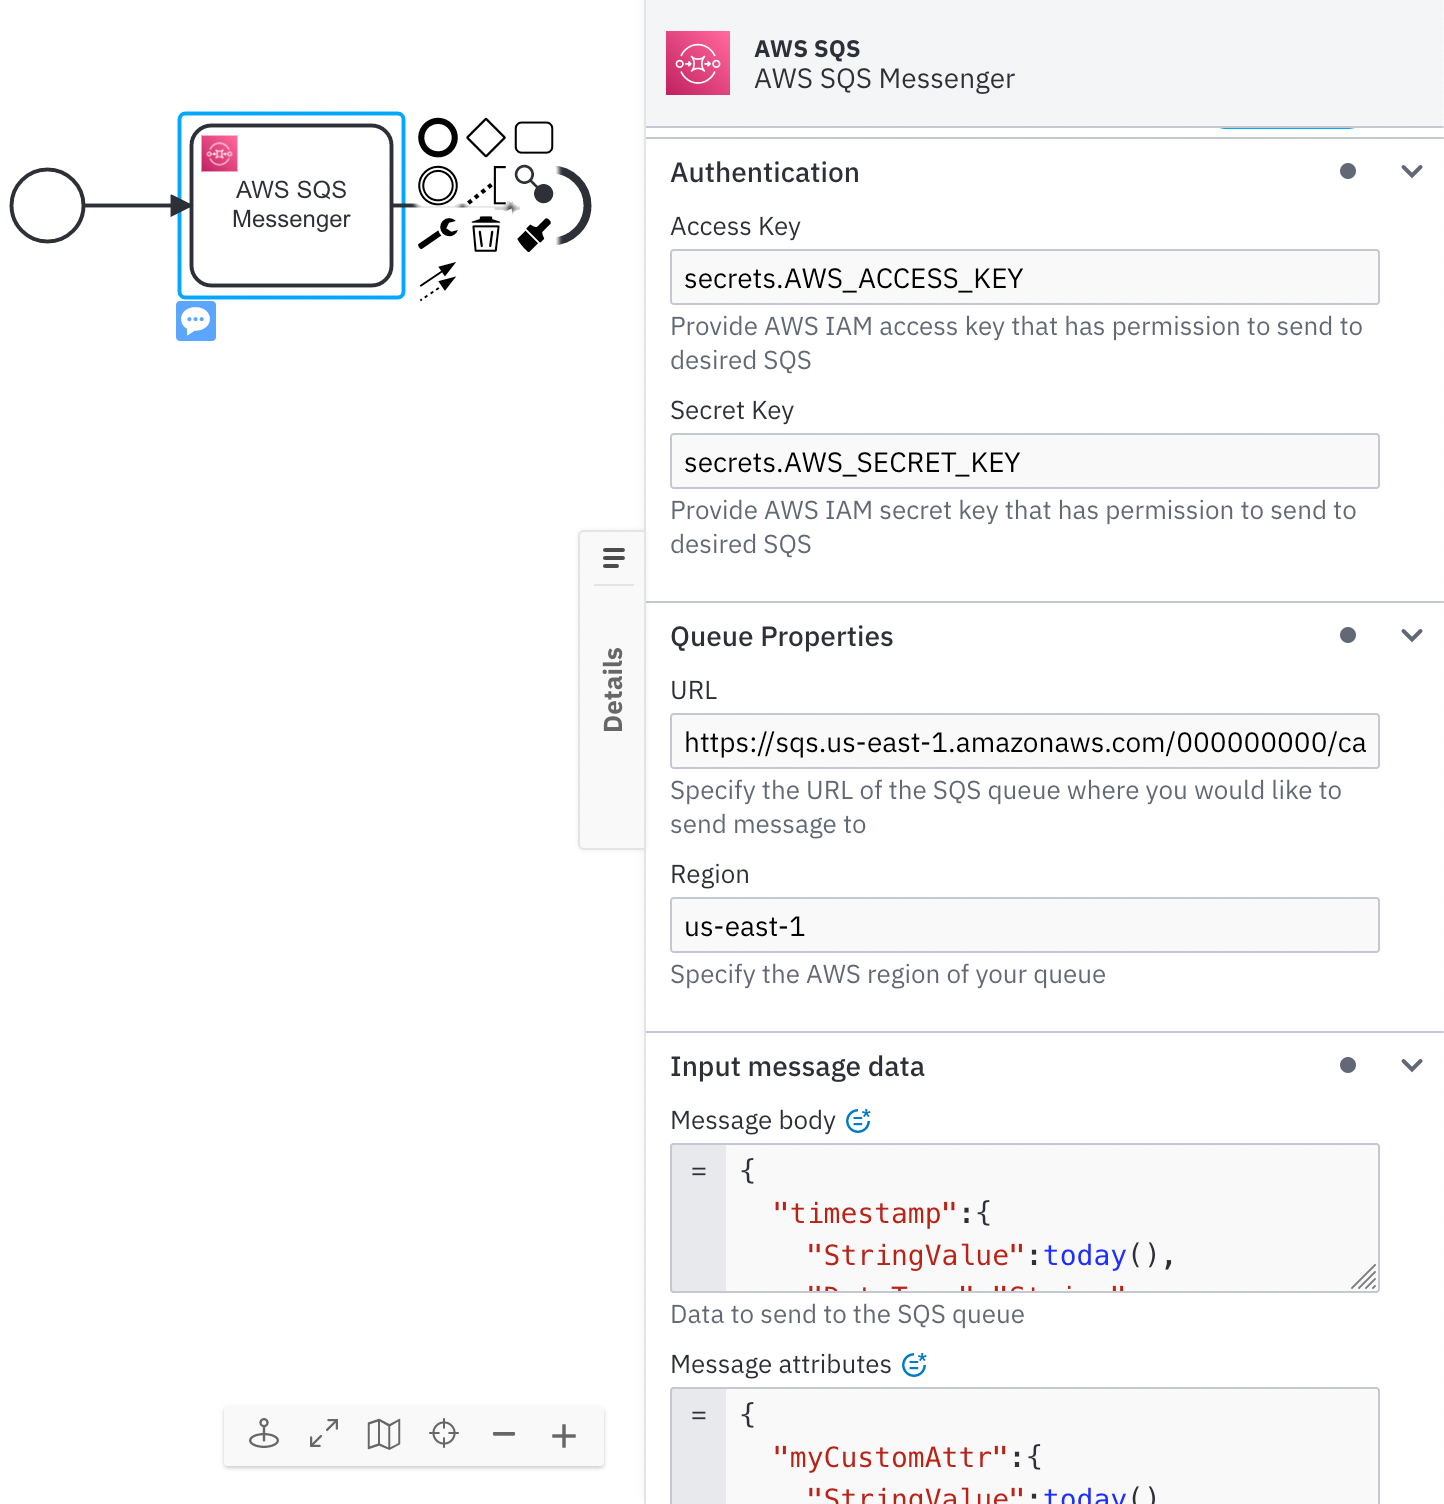
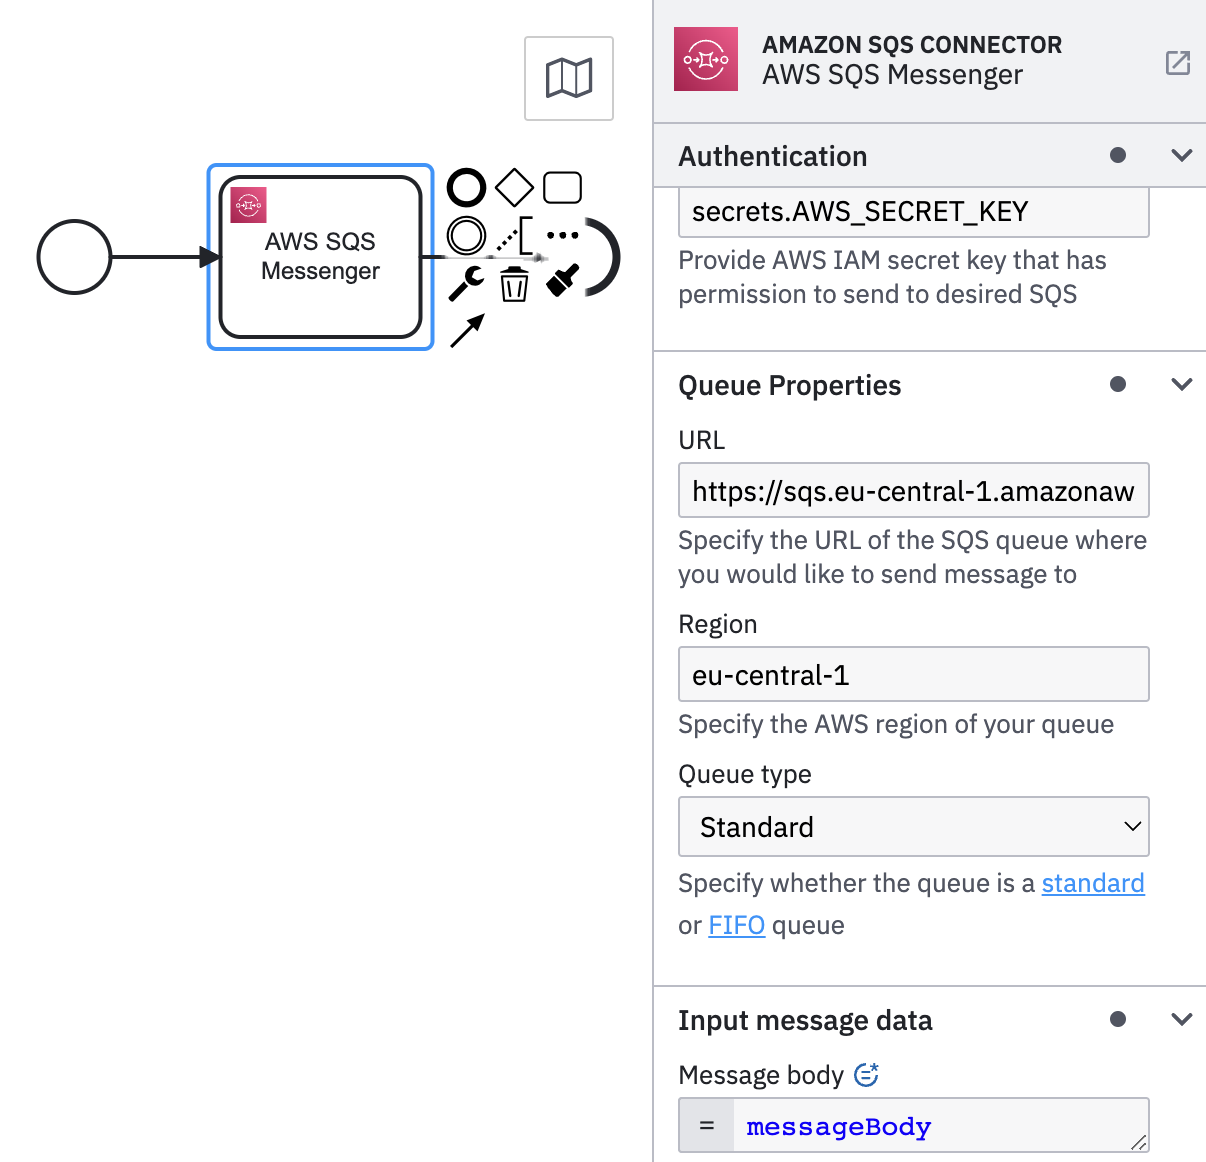
docs(connectors): Add aws sqs connector FIFO docs

diff --git a/docs/components/connectors/out-of-the-box-connectors/aws-sqs.md b/docs/components/connectors/out-of-the-box-connectors/aws-sqs.md
@@ -23,9 +23,10 @@ To use the **Amazon SQS Connector** in your process, either change the type of e
 To make your Amazon SQS Connector for sending messages executable, take the following steps:
 
 1. Set the relevant IAM key and secret pair in the **Authentication** section. For example, `secrets.MY_AWS_ACCESS_KEY`. The value can be plain text, but this is not recommended due to security concerns.
-2. In the **Queue Properties** section, set the URL of your SQS queue as well as its region.
+2. In the **Queue Properties** section, set the URL of your SQS queue as well as its region and its type.
 3. In the **Input message data** section, fill out the field **Message body** with the data you would like to submit to the queue. The field requires FEEL input.
 4. (Optional) In the **Input message data** section, fill out the field **Message attributes** to set optional message metadata. This field requires FEEL input. See the relevant [appendix](#what-are-the-message-attributes-and-how-can-i-set-them) section to find out more about this field.
+5. (FIFO only) In case you are using a queue of type **FIFO** a **Message Group ID** has to be [provided](https://docs.aws.amazon.com/AWSSimpleQueueService/latest/SQSDeveloperGuide/using-messagegroupid-property.html). An optional **Message Deduplication ID** can be provided as well depending on how you [configured](https://docs.aws.amazon.com/AWSSimpleQueueService/latest/SQSDeveloperGuide/using-messagededuplicationid-property.html) the message deduplication of the queue.
 
 ## Amazon SQS Connector response
 
